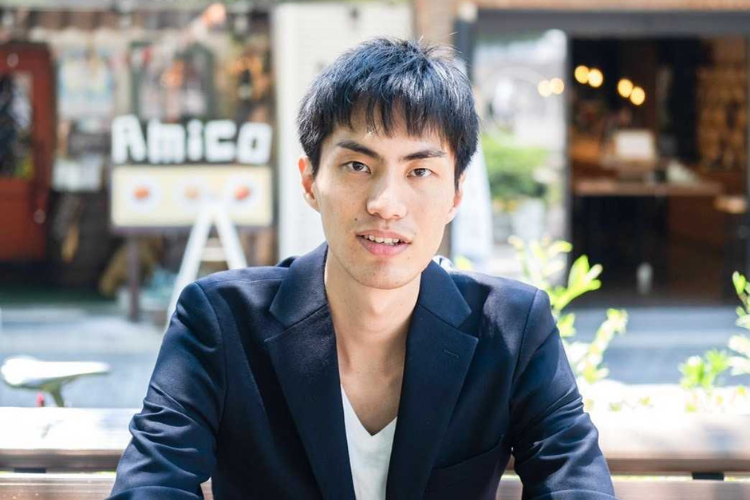
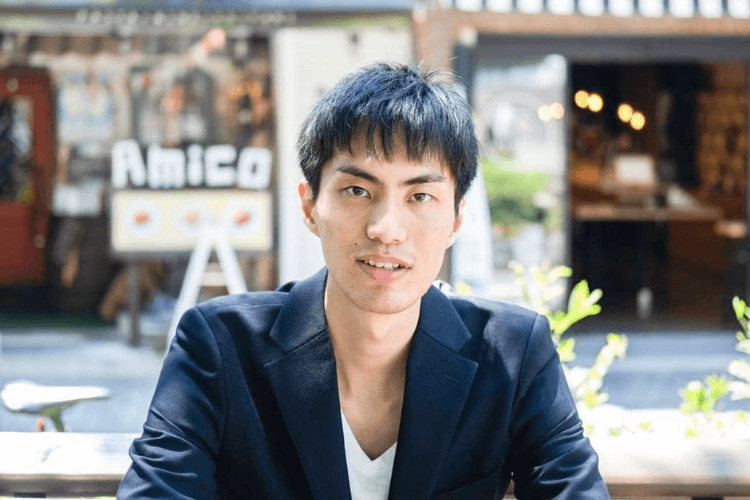
画像を修正しました。

diff --git a/nuxt/content/articles/others/speaker_interview_風間さん.md b/nuxt/content/articles/others/speaker_interview_風間さん.md
@@ -26,35 +26,32 @@ meta_tag:
 
 ![風間さん](article/others/風間さん/風間さん_サムネイル用.jpg)
 
-　大学で性の多様性を自分の問題として捉えたいと思い、授業をしている風間孝さん。「LGBTQを理解してあげる」という姿勢ではなく、「性的マジョリティーが自分ごととして捉えるには「特権」を持っているという視点が必要である」と今回のメインイベントでお話をしていただきました。今回は、そんな風間さんにトークづくりをサポートしていたスピーカーチームがインタビューをさせていただきました！！！
-
+大学で性の多様性を自分の問題として捉えたいと思い、授業をしている風間孝さん。「LGBTQ を理解してあげる」という姿勢ではなく、「性的マジョリティーが自分ごととして捉えるには「特権」を持っているという視点が必要である」と今回のメインイベントでお話をしていただきました。今回は、そんな風間さんにトークづくりをサポートしていたスピーカーチームがインタビューをさせていただきました！！！
 
 ![写真](article/others/風間さん/風間さん_インタビュー.jpg)
 
-
 # 性の多様性の問題を他人事として捉えている社会を変えたい！
-運営：風間さんはどうしてこのTEDxNagoyaUに登壇しようと決心してくれたのですか？
+
+運営：風間さんはどうしてこの TEDxNagoyaU に登壇しようと決心してくれたのですか？
 
 風間さん：性の多様性というと、性的マジョリティが性的マイノリティを理解しようとするという視点で語られることが多いと思います。つまり、性的マジョリティからすると性の多様性が他人事となっています。こうした現状をを崩したいと思って登壇することにしました！
 
-
 # この登壇を通じて考え直した「特権」というキーワード
-運営：性の多様性の問題をどうして「特権」という切り口から考えていこうと考えたのですか？
-風間さん：メインイベントに登壇する前から「特権」というキーワードは頭の中にありましたが、この機会を活用して考えていきたいなと思いました。今まで宿題として残っていた「特権」についてこのTEDxNagoyaUに登壇することをきっかけに、なぜ、マジョリティが性の多様性を自分のこととして捉え、特権を持っていることを自覚する必要があるのか、深く考えてみようと思ったんです。またマジョリティでありながら差別を是正するために行動するひとのことを「アライ（Ally)」といいますが、アライが行動をすることによって社会にどのような影響を及ぼすことができるのか、引き受ける前まで自分の中ではっきりした考えを持っていませんでした。そこで、スピーチ原稿を作っていくなかではっきりさせていきたいと思ったのです。「社会の中で有利な立場にいるマジョリティが努力なしに得ている恩恵」が特権であり、その特権に気づかなければマイクロアグレッション（無自覚の差別）を行ってしまうことにつながります。また性的マジョリティの立場を引き受けるアライだからこそ、偏見や差別に恐れることなく声をあげることができる。それは特権であるけれども、その特権を自覚して活用することで社会を変えていくことができると考えるようになっていきました。
 
+運営：性の多様性の問題をどうして「特権」という切り口から考えていこうと考えたのですか？
+風間さん：メインイベントに登壇する前から「特権」というキーワードは頭の中にありましたが、この機会を活用して考えていきたいなと思いました。今まで宿題として残っていた「特権」についてこの TEDxNagoyaU に登壇することをきっかけに、なぜ、マジョリティが性の多様性を自分のこととして捉え、特権を持っていることを自覚する必要があるのか、深く考えてみようと思ったんです。またマジョリティでありながら差別を是正するために行動するひとのことを「アライ（Ally)」といいますが、アライが行動をすることによって社会にどのような影響を及ぼすことができるのか、引き受ける前まで自分の中ではっきりした考えを持っていませんでした。そこで、スピーチ原稿を作っていくなかではっきりさせていきたいと思ったのです。「社会の中で有利な立場にいるマジョリティが努力なしに得ている恩恵」が特権であり、その特権に気づかなければマイクロアグレッション（無自覚の差別）を行ってしまうことにつながります。また性的マジョリティの立場を引き受けるアライだからこそ、偏見や差別に恐れることなく声をあげることができる。それは特権であるけれども、その特権を自覚して活用することで社会を変えていくことができると考えるようになっていきました。
 
 # 今後考えていきたいこと
+
 運営：このトークを終えて、今後風間さん自身でどんなことを考えていきたいですか？
 風間さんスピーチの最後で、「自分には当たり前にできることが、当たり前に出来ない人がいることは、居心地悪いと思いませんか」と問いかけましたが、居心地の悪さをなくしていこうとすることがマイノリティの生きやすい社会にどのように繋がっていくのかを考えていきたいです。
 
-
 # さいごに
-風間さん：TEDxNagoyaUで登壇することによって自分の考えと向き合うことができました。自分の伝えたいことについて一緒に考えてくれるスピーカーチームの学生さんから「こういう伝え方の方が分かりやすいですよ」「この観点はどうですか？」と意見をもらえたことで、より多くのひとに伝わるスピーチになったと思います！スピーチを通して、自分の言葉でオーディエンスにどう伝えるか考えるよい機会になりました。
 
+風間さん：TEDxNagoyaU で登壇することによって自分の考えと向き合うことができました。自分の伝えたいことについて一緒に考えてくれるスピーカーチームの学生さんから「こういう伝え方の方が分かりやすいですよ」「この観点はどうですか？」と意見をもらえたことで、より多くのひとに伝わるスピーチになったと思います！スピーチを通して、自分の言葉でオーディエンスにどう伝えるか考えるよい機会になりました。
 
 風間孝さん、ありがとうございました！
 風間さんのトーク動画のリンクはこちらから！！！（開設中）
-
 
 ```:
 インタビューに協力してくれた方
@@ -62,3 +59,4 @@ meta_tag:
 　中京大学教養教育研究院教授
 　＃性の多様性　＃LGBTQ　＃特権
 
+```
